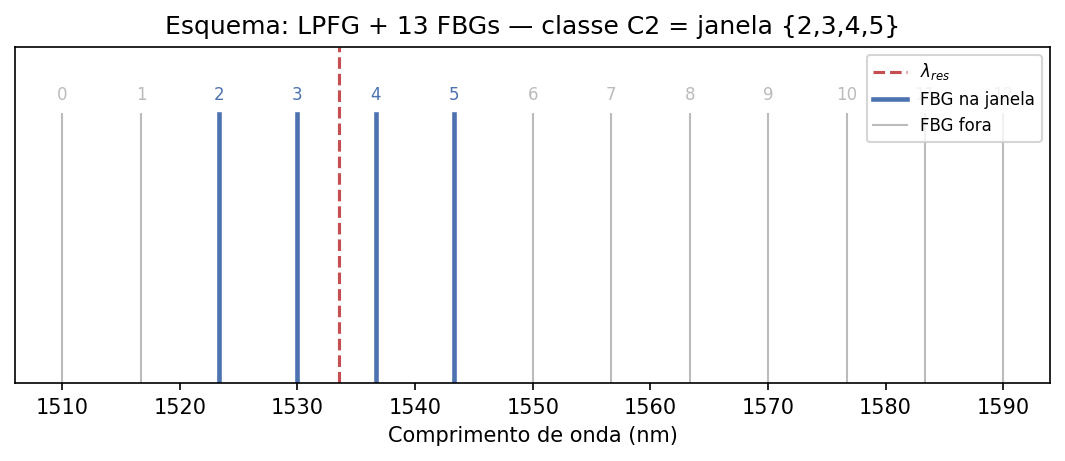
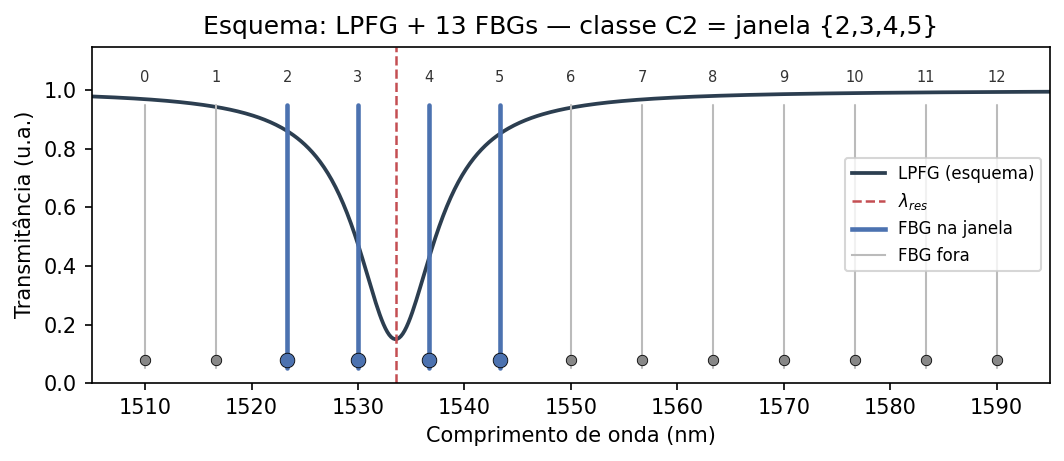
Restore LPFG spectrum in schema figure and center the legend.
Makes the LPFG dip visible again alongside the FBG window, with the legend vertically centered on the right.

diff --git a/paper/classification/scripts/run_passo6.py b/paper/classification/scripts/run_passo6.py
@@ -21,31 +21,56 @@ from src.tuned_models import build_tuned_classifiers
 
 
 def fig_schema(out: Path):
+    """Esquema: vale LPFG + 13 FBGs + janela-classe contígua."""
     data = load_prepared_dataset()
     wl_mean = np.asarray(data["wl_bragg"], dtype=float).mean(axis=0)
     lam = float(np.median(data["target"]))
-    # classe típica perto da mediana
     y = np.asarray(data["y_class"], dtype=int).ravel()
-    # pick a sample near median lambda
     target = np.asarray(data["target"], dtype=float).ravel()
     i = int(np.argmin(np.abs(target - lam)))
     s = int(y[i])
     active = set(range(s, s + K_DEFAULT))
+    lam_i = float(target[i])
 
     fig, ax = plt.subplots(figsize=(7.2, 3.2))
-    ax.axvline(target[i], color="#c44e52", ls="--", lw=1.5, label=r"$\lambda_{res}$")
+    # curva LPFG esquemática (Lorentziana invertida)
+    xs = np.linspace(wl_mean.min() - 5, wl_mean.max() + 5, 500)
+    dip = 1.0 / (1.0 + ((xs - lam_i) / 4.5) ** 2)
+    ax.plot(xs, 1 - 0.85 * dip, color="#2c3e50", lw=1.8, label="LPFG (esquema)")
+    ax.axvline(lam_i, color="#c44e52", ls="--", lw=1.2, label=r"$\lambda_{res}$")
+
     for j, w in enumerate(wl_mean):
-        color = "#4c72b0" if j in active else "#bbbbbb"
-        lw = 2.2 if j in active else 1.0
-        ax.plot([w, w], [0, 1], color=color, lw=lw)
-        ax.text(w, 1.05, str(j), ha="center", fontsize=8, color=color)
-    ax.set_ylim(0, 1.25)
+        selected = j in active
+        color = "#4c72b0" if selected else "#bbbbbb"
+        ax.plot(
+            [w, w],
+            [0.05, 0.95],
+            color=color,
+            lw=2.2 if selected else 1.0,
+            solid_capstyle="round",
+        )
+        ax.plot(
+            w,
+            0.08,
+            marker="o",
+            markersize=7 if selected else 5,
+            color="#4c72b0" if selected else "#888888",
+            markeredgecolor="black",
+            markeredgewidth=0.4,
+        )
+        ax.text(w, 1.02, str(j), ha="center", va="bottom", fontsize=7, color="#333333")
+
+    ax.set_xlim(xs.min(), xs.max())
+    ax.set_ylim(0, 1.15)
     ax.set_xlabel("Comprimento de onda (nm)")
-    ax.set_yticks([])
-    ax.set_title(f"Esquema: LPFG + 13 FBGs — classe C{s} = janela {{{','.join(map(str, range(s, s+4)))}}}")
+    ax.set_ylabel("Transmitância (u.a.)")
+    ax.set_title(
+        f"Esquema: LPFG + 13 FBGs — classe C{s} = janela "
+        f"{{{','.join(map(str, range(s, s + 4)))}}}"
+    )
     ax.plot([], [], color="#4c72b0", lw=2.2, label="FBG na janela")
     ax.plot([], [], color="#bbbbbb", lw=1.0, label="FBG fora")
-    ax.legend(fontsize=8, loc="upper right")
+    ax.legend(fontsize=8, loc="center right")
     fig.tight_layout()
     fig.savefig(out, dpi=150, bbox_inches="tight")
     plt.close(fig)